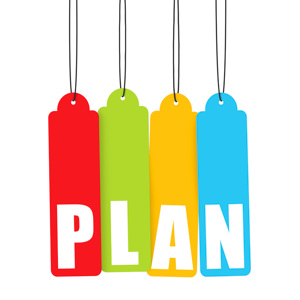
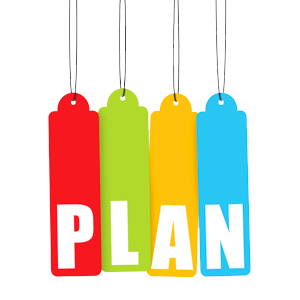
Added background

diff --git a/src/styles/styles.scss b/src/styles/styles.scss
@@ -1,6 +1,6 @@
-@import './add-todo.scss';
-@import './todo-list.scss';
-@import './todo-item.scss';
+@import "./add-todo.scss";
+@import "./todo-list.scss";
+@import "./todo-item.scss";
 
 /* Variables */
 $vin-blue: #5bb7db;
@@ -9,7 +9,7 @@ $vin-red: #ff0000;
 
 /* Styles */
 body {
-  font: 14px 'Helvetica Neue', Helvetica, Arial, sans-serif;
+  font: 14px "Helvetica Neue", Helvetica, Arial, sans-serif;
   line-height: 1.4em;
   color: #4d4d4d;
   min-width: 230px;
@@ -17,22 +17,30 @@ body {
   margin: 0 auto;
   -webkit-font-smoothing: antialiased;
   -moz-font-smoothing: antialiased;
-  font-smoothing: antialiased;
   font-weight: 300;
+  background-color: #f2f2f2;
 }
 
 td {
-	padding: 12px;
+  padding: 12px;
 }
 
 h2 {
-	color: $vin-blue;
+  color: $vin-blue;
 }
 
-.savings { color: $vin-green; }
-.loss { color: $vin-red; }
-input.small { width: 46px; }
-td.fuel-savings-label { width: 175px; }
+.savings {
+  color: $vin-green;
+}
+.loss {
+  color: $vin-red;
+}
+input.small {
+  width: 46px;
+}
+td.fuel-savings-label {
+  width: 175px;
+}
 
 .paper {
   display: flex;

diff --git a/src/components/AddTodo.js b/src/components/AddTodo.js
@@ -52,7 +52,7 @@ class AddTodo extends React.Component {
         label="Cancel"
         primary={true}
         onClick={this.handleClose}
-        key={Math.random}
+        key={0 + "_foo"}
       />,
       <FlatButton
         type="submit"
@@ -60,9 +60,11 @@ class AddTodo extends React.Component {
         primary={true}
         keyboardFocused={true}
         onClick={this.handleSubmit}
-        key={Math.random}
+        key={1 + "_foo"}
       />
     ];
+    // let cancelKey = keyIndex(actions, 1);
+    // let submitKey = keyIndex(actions, 2)
     return (
       <div id="form">
         <FlatButton
